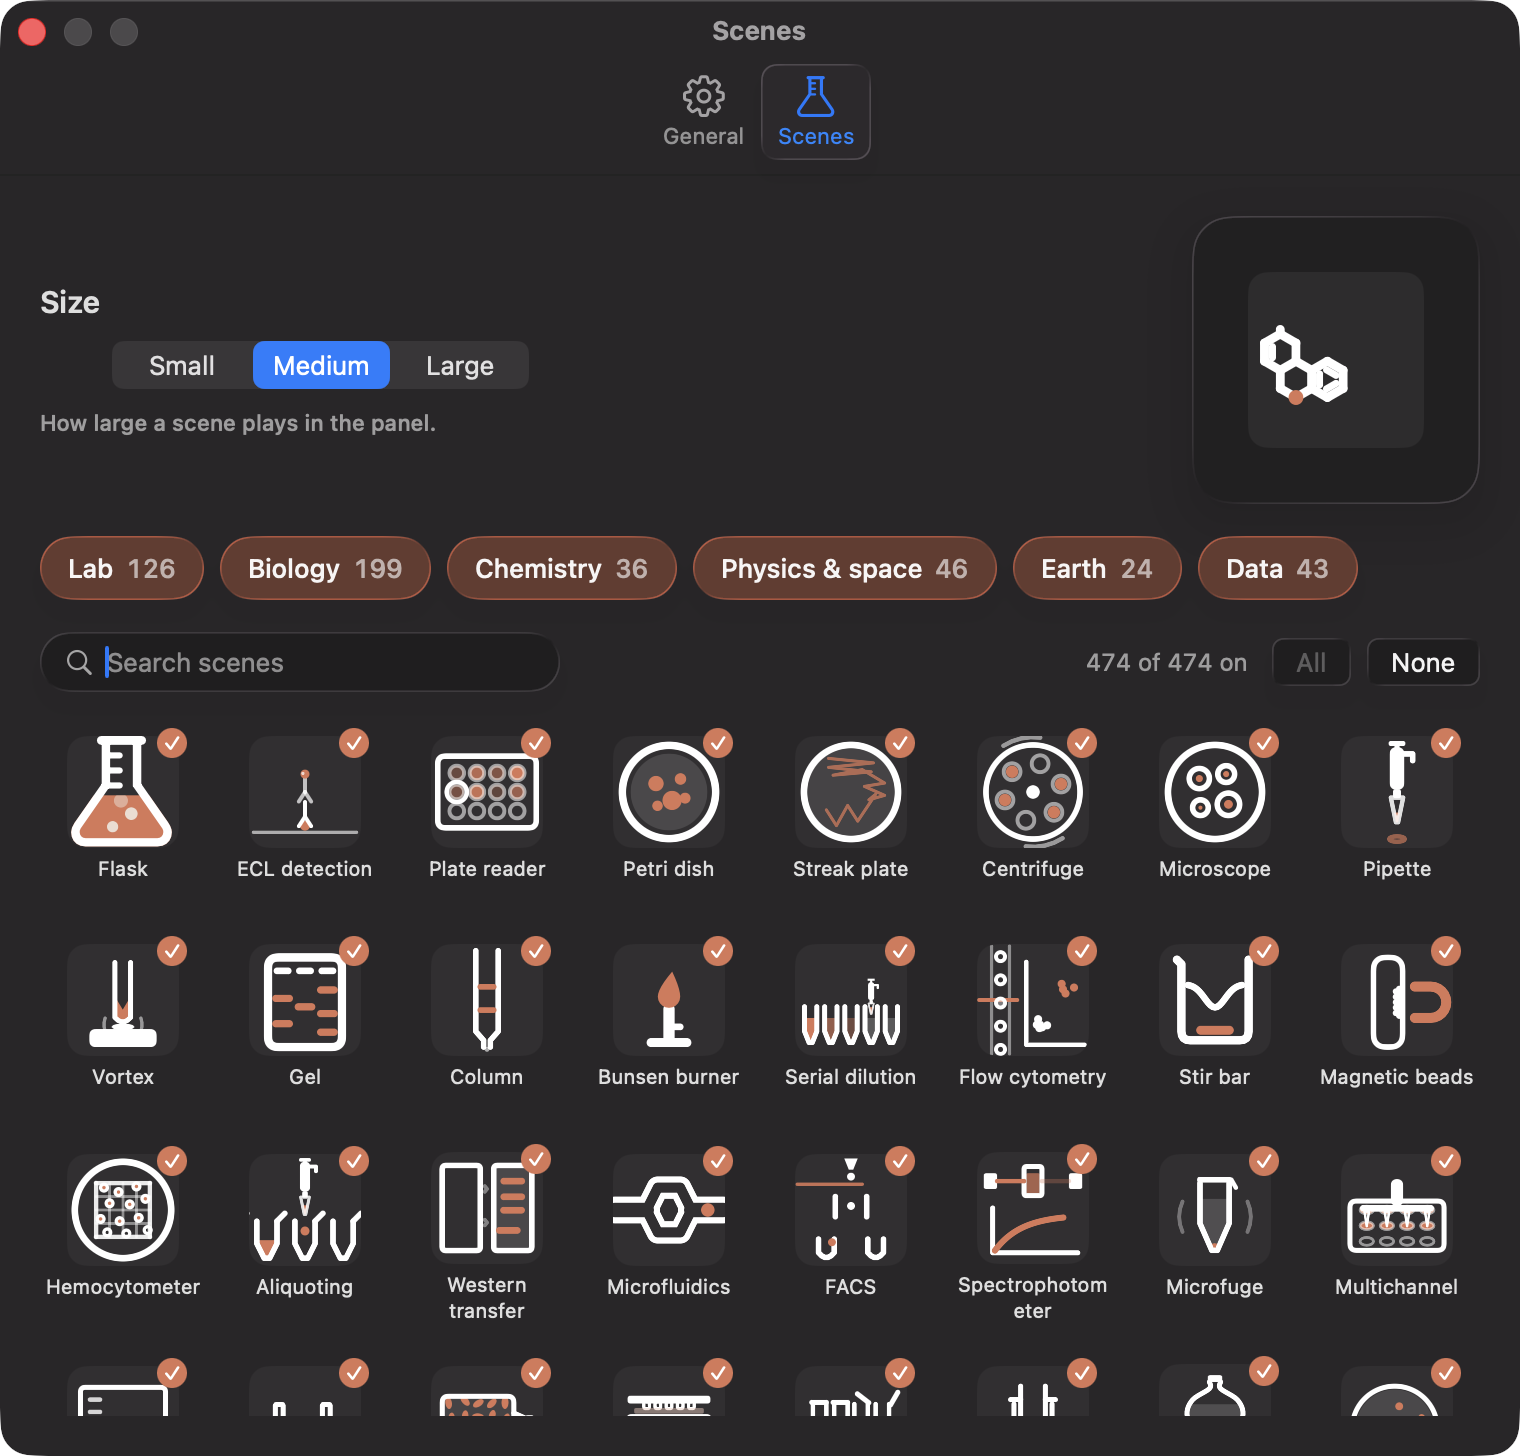
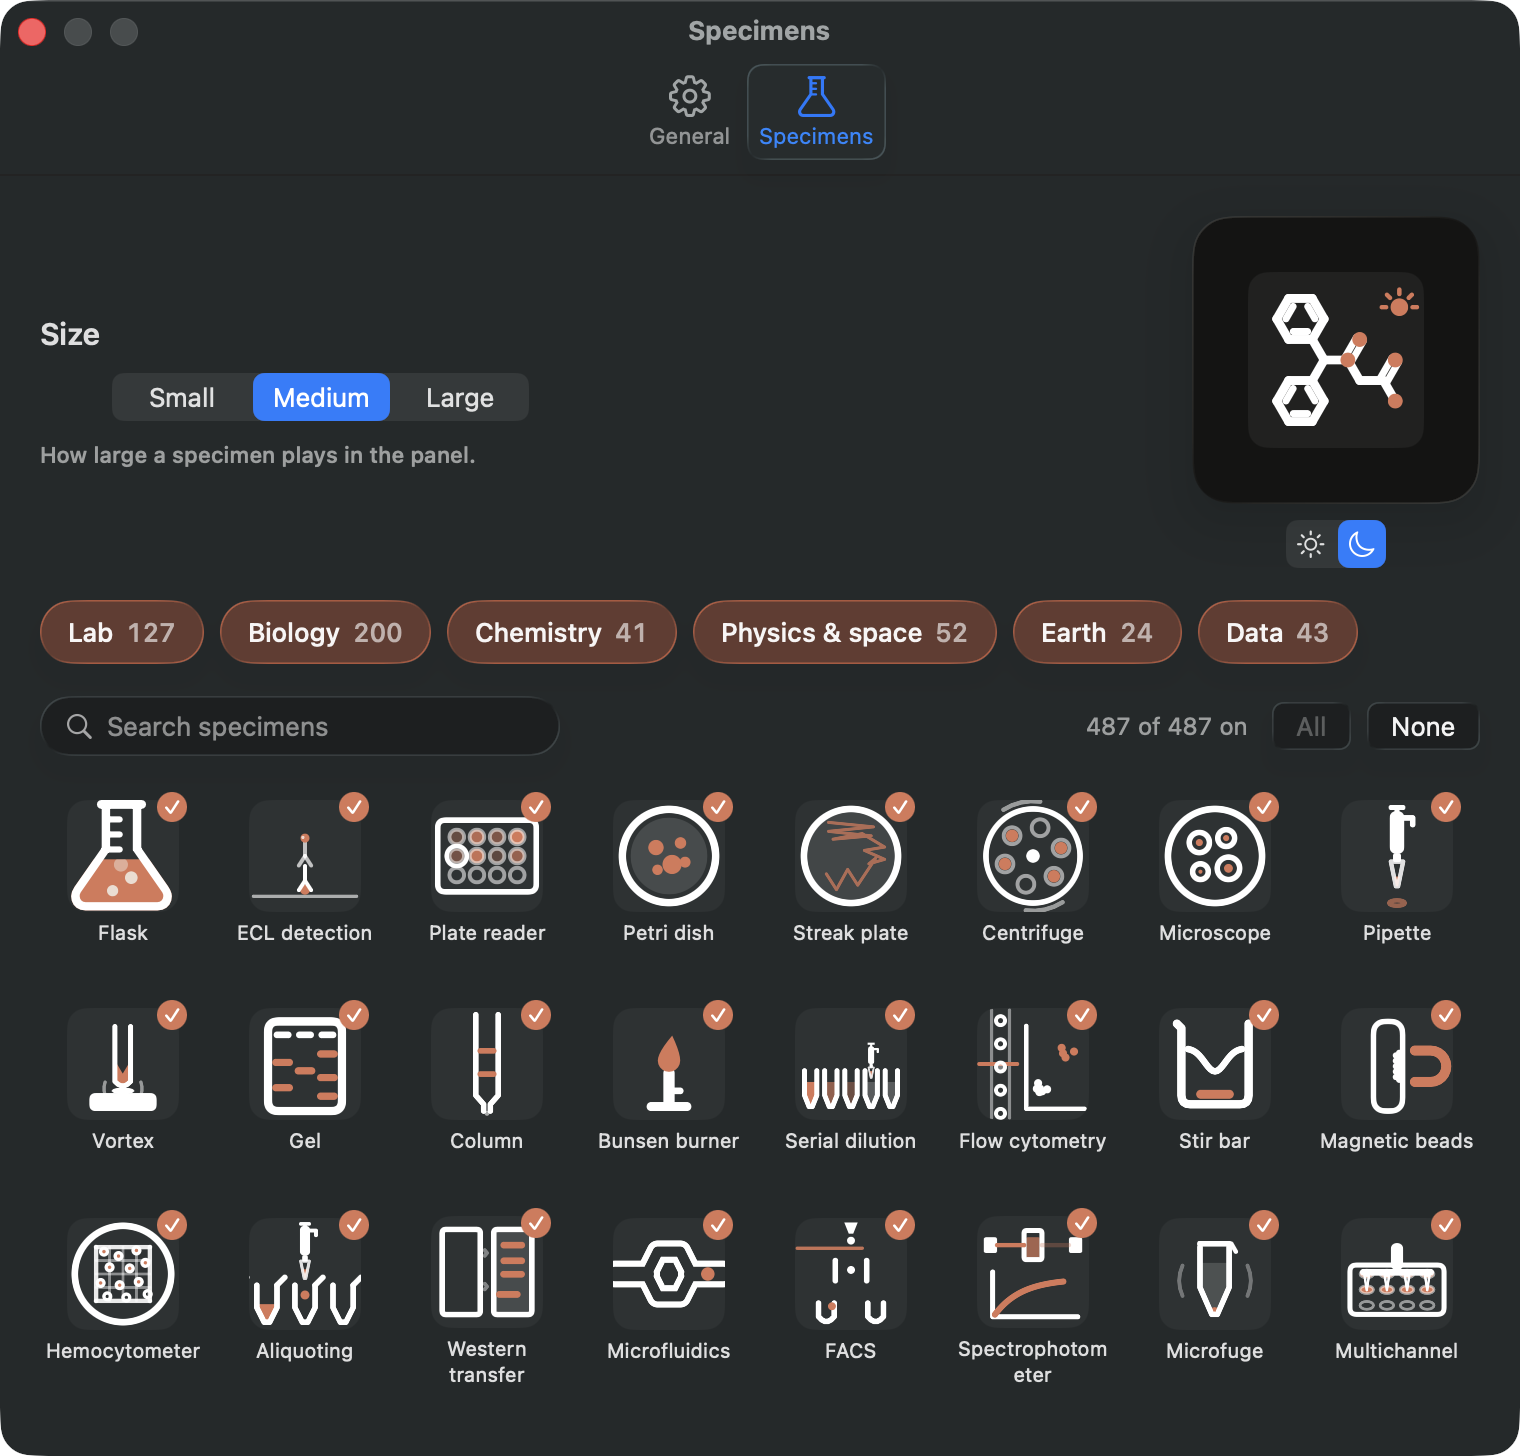
Bench 0.1.6: Specimens; the grid follows the categories; preview in light or dark
The animations are called specimens wherever a user reads them (the code
keeps its Scene names). In Settings → Specimens the grid lists only the
categories that are on, and a switch under the preview draws it on light
or dark. README screenshot retaken.

diff --git a/Sources/Bench/Lab/SceneSettingsView.swift b/Sources/Bench/Lab/SceneSettingsView.swift
@@ -10,6 +10,8 @@ struct SceneSettingsView: View {
     @Environment(\.accessibilityReduceMotion) private var reduceMotion
     @Environment(\.colorScheme) private var colorScheme
     @State private var query = ""
+    /// Light or dark for the preview well only; nil follows the app.
+    @State private var previewScheme: ColorScheme?
 
     /// Every scene, each category's together so that a chip's switch reads as
     /// one block of the grid. Built once: the catalogue does not change.
@@ -51,7 +53,7 @@ struct SceneSettingsView: View {
                 .pickerStyle(.segmented)
                 .labelsHidden()
                 .frame(width: 280)
-                Text("How large a scene plays in the panel.")
+                Text("How large a specimen plays in the panel.")
                     .font(.system(size: 11, weight: .medium))
                     .foregroundStyle(.secondary)
             }
@@ -60,22 +62,21 @@ struct SceneSettingsView: View {
         }
     }
 
-    /// The panel's well as it will look, playing what is switched on. A new
-    /// size fades in a new well instead of stretching the old one: a scene
-    /// view draws its frames again at every size it is laid out in, so a
-    /// spring would make it draw them again on every tick.
+    /// The preview well, with a switch under it for light or dark.
     private var preview: some View {
-        ZStack {
-            PlayedGlyph(tint: colorScheme.sceneInk, rotation: settings.rotation)
-                .frame(width: settings.size.points, height: settings.size.points)
-                .background(Color.primary.opacity(0.06))
-                .clipShape(.rect(cornerRadius: Theme.panelCorner - Theme.panelPadding))
-                .id(settings.size)
-                .transition(.opacity)
+        let scheme = Binding(get: { previewScheme ?? colorScheme }, set: { previewScheme = $0 })
+        return VStack(spacing: 8) {
+            PreviewWell(size: settings.size, rotation: settings.rotation, side: Self.previewSide, spring: spring)
+                .environment(\.colorScheme, scheme.wrappedValue)
+            Picker("Preview", selection: scheme) {
+                Image(systemName: "sun.max").accessibilityLabel("Light").tag(ColorScheme.light)
+                Image(systemName: "moon").accessibilityLabel("Dark").tag(ColorScheme.dark)
+            }
+            .pickerStyle(.segmented)
+            .labelsHidden()
+            .fixedSize()
+            .help("Preview on light or dark")
         }
-        .animation(spring, value: settings.size)
-        .frame(width: Self.previewSide, height: Self.previewSide)
-        .glassEffect(.regular, in: .rect(cornerRadius: 20))
     }
 
     // MARK: Categories
@@ -109,7 +110,7 @@ struct SceneSettingsView: View {
         .buttonStyle(.plain)
         .glassEffect(on ? .regular.tint(Theme.clay.opacity(0.35)).interactive() : .regular.interactive(),
                      in: .capsule)
-        .help(settings.canToggle(group) ? group.title : "At least one scene has to stay on")
+        .help(settings.canToggle(group) ? group.title : "At least one specimen has to stay on")
         .accessibilityValue(on ? "On" : "Off")
         .accessibilityAddTraits(.isToggle)
     }
@@ -139,7 +140,7 @@ struct SceneSettingsView: View {
         HStack(spacing: 6) {
             Image(systemName: "magnifyingglass")
                 .foregroundStyle(.secondary)
-            TextField("Search scenes", text: $query)
+            TextField("Search specimens", text: $query)
                 .textFieldStyle(.plain)
             if !query.isEmpty {
                 Button {
@@ -161,11 +162,14 @@ struct SceneSettingsView: View {
 
     // MARK: The grid
 
-    /// The scenes whose name holds the search text, in the grid's order.
+    /// The scenes in the categories that are on whose name holds the search
+    /// text, in the grid's order. A category that is off leaves the grid, so
+    /// the grid is what can play; its scenes come back with its chip.
     private var matching: [LabScene] {
+        let inGroups = Self.scenes.filter { settings.groups.contains($0.theme.group) }
         let needle = query.trimmingCharacters(in: .whitespaces)
-        guard !needle.isEmpty else { return Self.scenes }
-        return Self.scenes.filter { $0.name.localizedCaseInsensitiveContains(needle) }
+        guard !needle.isEmpty else { return inGroups }
+        return inGroups.filter { $0.name.localizedCaseInsensitiveContains(needle) }
     }
 
     @ViewBuilder
@@ -274,5 +278,36 @@ private struct SceneStill: View, Equatable {
         Canvas { context, size in
             LabScenes.draw(scene, in: &context, size: size, local: scene.duration * 0.6, tint: ink)
         }
+    }
+}
+
+/// The panel's well as it will look, on light or dark (its colour scheme is
+/// the environment's, which the switch under it sets), playing what is on.
+/// A new size fades in a new well instead of stretching the old one: a scene
+/// view draws its frames again at every size it is laid out in, so a spring
+/// would make it draw them again on every tick.
+private struct PreviewWell: View {
+    let size: SceneSize
+    let rotation: Rotation
+    let side: CGFloat
+    let spring: Animation?
+
+    @Environment(\.colorScheme) private var colorScheme
+
+    var body: some View {
+        ZStack {
+            PlayedGlyph(tint: colorScheme.sceneInk, rotation: rotation)
+                .frame(width: size.points, height: size.points)
+                .background(Color.primary.opacity(0.06))
+                .clipShape(.rect(cornerRadius: Theme.panelCorner - Theme.panelPadding))
+                .id(size)
+                .transition(.opacity)
+        }
+        .animation(spring, value: size)
+        .frame(width: side, height: side)
+        // Its own backdrop in the chosen scheme, so light and dark read as
+        // such whatever the window is.
+        .background(colorScheme == .dark ? Theme.slate : Theme.ivory, in: .rect(cornerRadius: 20))
+        .glassEffect(.regular, in: .rect(cornerRadius: 20))
     }
 }

diff --git a/Sources/Bench/Lab/ScenesToolbarButton.swift b/Sources/Bench/Lab/ScenesToolbarButton.swift
@@ -13,7 +13,7 @@ struct ScenesToolbarButton: View {
     /// (not a template) keeps the clay.
     private static let clayFlask: NSImage = {
         let configuration = NSImage.SymbolConfiguration(paletteColors: [NSColor(Theme.clay)])
-        let image = NSImage(systemSymbolName: "flask.fill", accessibilityDescription: "Scenes on")?
+        let image = NSImage(systemSymbolName: "flask.fill", accessibilityDescription: "Specimens on")?
             .withSymbolConfiguration(configuration) ?? NSImage()
         image.isTemplate = false
         return image
@@ -37,7 +37,7 @@ struct ScenesToolbarButton: View {
                     Button("Diagnostics…") { DiagnosticsWindowController.shared.show() }
                 }
             }
-            Toggle("Show scenes panel", isOn: $showPanel)
+            Toggle("Show specimens panel", isOn: $showPanel)
             Section("Size") {
                 Picker("Size", selection: $settings.size) {
                     ForEach(SceneSize.allCases) { size in
@@ -54,33 +54,33 @@ struct ScenesToolbarButton: View {
                 }
             }
             Divider()
-            Button("Choose scenes…") {
+            Button("Choose specimens…") {
                 settingsTab = "scenes"
                 openSettings()
                 NSApp.activate()
             }
         } label: {
             if showPanel, lab.problem != nil {
-                Label("Scenes", systemImage: "exclamationmark.triangle")
+                Label("Specimens", systemImage: "exclamationmark.triangle")
                     .labelStyle(.titleAndIcon)
                     .foregroundStyle(Theme.clay)
             } else if showPanel {
                 // Only the symbol takes the accent: the word stays plain.
                 Label {
-                    Text("Scenes")
+                    Text("Specimens")
                 } icon: {
                     Image(nsImage: Self.clayFlask)
                 }
                 .labelStyle(.titleAndIcon)
             } else {
-                Label("Scenes off", systemImage: "flask")
+                Label("Specimens off", systemImage: "flask")
                     .labelStyle(.titleAndIcon)
                     .foregroundStyle(.secondary)
             }
         } primaryAction: {
             showPanel.toggle()
         }
-        .help(lab.problem.map { "Can't see your Claude Science sessions: \($0.label)" } ?? "Show or hide the scenes panel")
+        .help(lab.problem.map { "Can't see your Claude Science sessions: \($0.label)" } ?? "Show or hide the specimens panel")
     }
 
     /// A category's switch. The last one on is disabled, and `toggle` refuses

diff --git a/Sources/Bench/App/BenchApp.swift b/Sources/Bench/App/BenchApp.swift
@@ -161,7 +161,7 @@ struct BenchCommands: Commands {
             Button("Actual Size") { WebContainer.shared.resetZoom() }
                 .keyboardShortcut("0")
             Divider()
-            Button("Show Scenes Panel") {
+            Button("Show Specimens Panel") {
                 let defaults = UserDefaults.standard
                 defaults.set(!defaults.bool(forKey: SettingsKey.showPanel), forKey: SettingsKey.showPanel)
             }
@@ -191,7 +191,7 @@ struct SettingsView: View {
     var body: some View {
         TabView(selection: $tab) {
             Tab("General", systemImage: "gearshape", value: "general") { GeneralSettingsView() }
-            Tab("Scenes", systemImage: "flask", value: "scenes") { SceneSettingsView() }
+            Tab("Specimens", systemImage: "flask", value: "scenes") { SceneSettingsView() }
         }
     }
 }
@@ -225,12 +225,12 @@ struct GeneralSettingsView: View {
             }
             .pickerStyle(.segmented)
             .onChange(of: appearance) { BenchAppearance.apply() }
-            Toggle("Show the scenes panel while a session works", isOn: $showPanel)
+            Toggle("Show the specimens panel while a session works", isOn: $showPanel)
             Toggle("Keep showing it while Bench is in front", isOn: $panelWhileFront)
                 .disabled(!showPanel)
             Toggle("Play a sound when a session needs you", isOn: $sound)
             Section {
-                LabeledContent("If scenes or cards don't show up") {
+                LabeledContent("If specimens or cards don't show up") {
                     Button("Diagnostics…") { DiagnosticsWindowController.shared.show() }
                 }
             }

diff --git a/README.md b/README.md
@@ -2,7 +2,7 @@
 
 **Claude Science as a real Mac app.**
 
-<img src="docs/scenes.gif" width="580" alt="Eight of Bench's animated lab scenes playing: a pipette aliquoting, a cell dividing, distillation, a kinesin motor, CRISPR, a curve fit, a centrifuge and planaria">
+<img src="docs/scenes.gif" width="580" alt="Eight of Bench's animated lab specimens playing: a pipette aliquoting, a cell dividing, distillation, a kinesin motor, CRISPR, a curve fit, a centrifuge and planaria">
 
 **Install in one line**: paste into Terminal (Apple silicon, macOS 26 or later):
 
@@ -28,10 +28,10 @@ Or [download Bench.zip](https://github.com/samporter14/bench/releases/latest/dow
 - **One home for Claude Science.** No lost browser tab. Nothing opens in
   Safari unless you ask, and pop-outs and sign-in windows stay in the app.
 - **Know when it needs you.** While a session works, one of 487 little
-  animated lab scenes plays in a glass panel in the corner of your screen.
+  animated lab specimens plays in a glass panel in the corner of your screen.
   When a session needs your input, a card there takes you straight to it.
 
-  <img src="docs/panel-working.png" width="336" alt="The floating panel while a session works: a scene playing, and the session's name, project and running time"> <img src="docs/panel-card.png" width="360" alt="The panel's card when a session asked a question, with Open and Later buttons">
+  <img src="docs/panel-working.png" width="336" alt="The floating panel while a session works: a specimen playing, and the session's name, project and running time"> <img src="docs/panel-card.png" width="360" alt="The panel's card when a session asked a question, with Open and Later buttons">
 - **Usage at a glance.** The title bar shows how full your session's context
   is and how much of your plan is left, with a countdown to when it resets.
 
@@ -39,10 +39,11 @@ Or [download Bench.zip](https://github.com/samporter14/bench/releases/latest/dow
 
 ## Make it yours
 
-Pick how big the scenes play, turn whole categories on or off, or choose
-scenes one by one, in Settings → Scenes.
+Pick how big the specimens play, turn whole categories on or off, or choose
+them one by one, in Settings → Specimens. The preview plays only what's on,
+in light or dark.
 
-<img src="docs/scene-picker.png" width="520" alt="Settings, Scenes tab: a size picker, category chips and a grid of scenes to choose from">
+<img src="docs/scene-picker.png" width="520" alt="Settings, Specimens tab: a size picker, category chips and a grid of specimens to choose from">
 
 ## Install
 
@@ -84,7 +85,7 @@ once more. **Bench → About Bench** shows which version is running.
 
 If Bench ever opens on a "Sign in" screen, click **Sign in**.
 
-If the scenes or the "needs you" cards never show up, open **Help → Bench
+If the specimens or the "needs you" cards never show up, open **Help → Bench
 Diagnostics**. It checks each step Bench takes to see your sessions and has a
 **Copy** button; nothing in it names your projects or sessions. The same
 report prints in Terminal with the command below, once macOS has let that

diff --git a/TESTING.md b/TESTING.md
@@ -123,3 +123,14 @@ The checklist from DESIGN.md. ✅ is seen working live, ⏳ is not tried yet
   default):** with the Mac in Light, `--demo settings -appearance dark` came
   up dark with Dark selected. The saved settings were unchanged apart from
   the Settings window's position.
+
+## 2026-09-29, Bench 0.1.6 (Specimens)
+
+- ✅ **The grid follows the categories:** with only Chemistry on, the grid
+  shows its 41 scenes, not all 487. The preview already played only what's
+  on.
+- ✅ **Preview light/dark switch (☀/🌙 under the well):** the well draws on
+  ivory or slate whatever the app's appearance, and starts on the app's.
+- ✅ **"Scenes" is now "Specimens"** everywhere a user reads it: the Settings
+  tab, the toolbar button and menu, search, the General toggles and the
+  View menu. The README screenshot has been retaken.

diff --git a/DESIGN.md b/DESIGN.md
@@ -382,6 +382,10 @@ and Bench never holds the session. Only read-only paths are allowed.
   button (`.glass`).
 - One Usage control, not two.
 
+## Naming
+
+The animations are called **specimens** everywhere a user reads them (the Specimens tab, "Choose specimens…", the Specimens toolbar button). The code keeps its `Scene` names (LabScene, SceneSettings, the droplet's files).
+
 ## Settings (⌘,)
 
 Two tabs: General (below) and Scenes (above).
